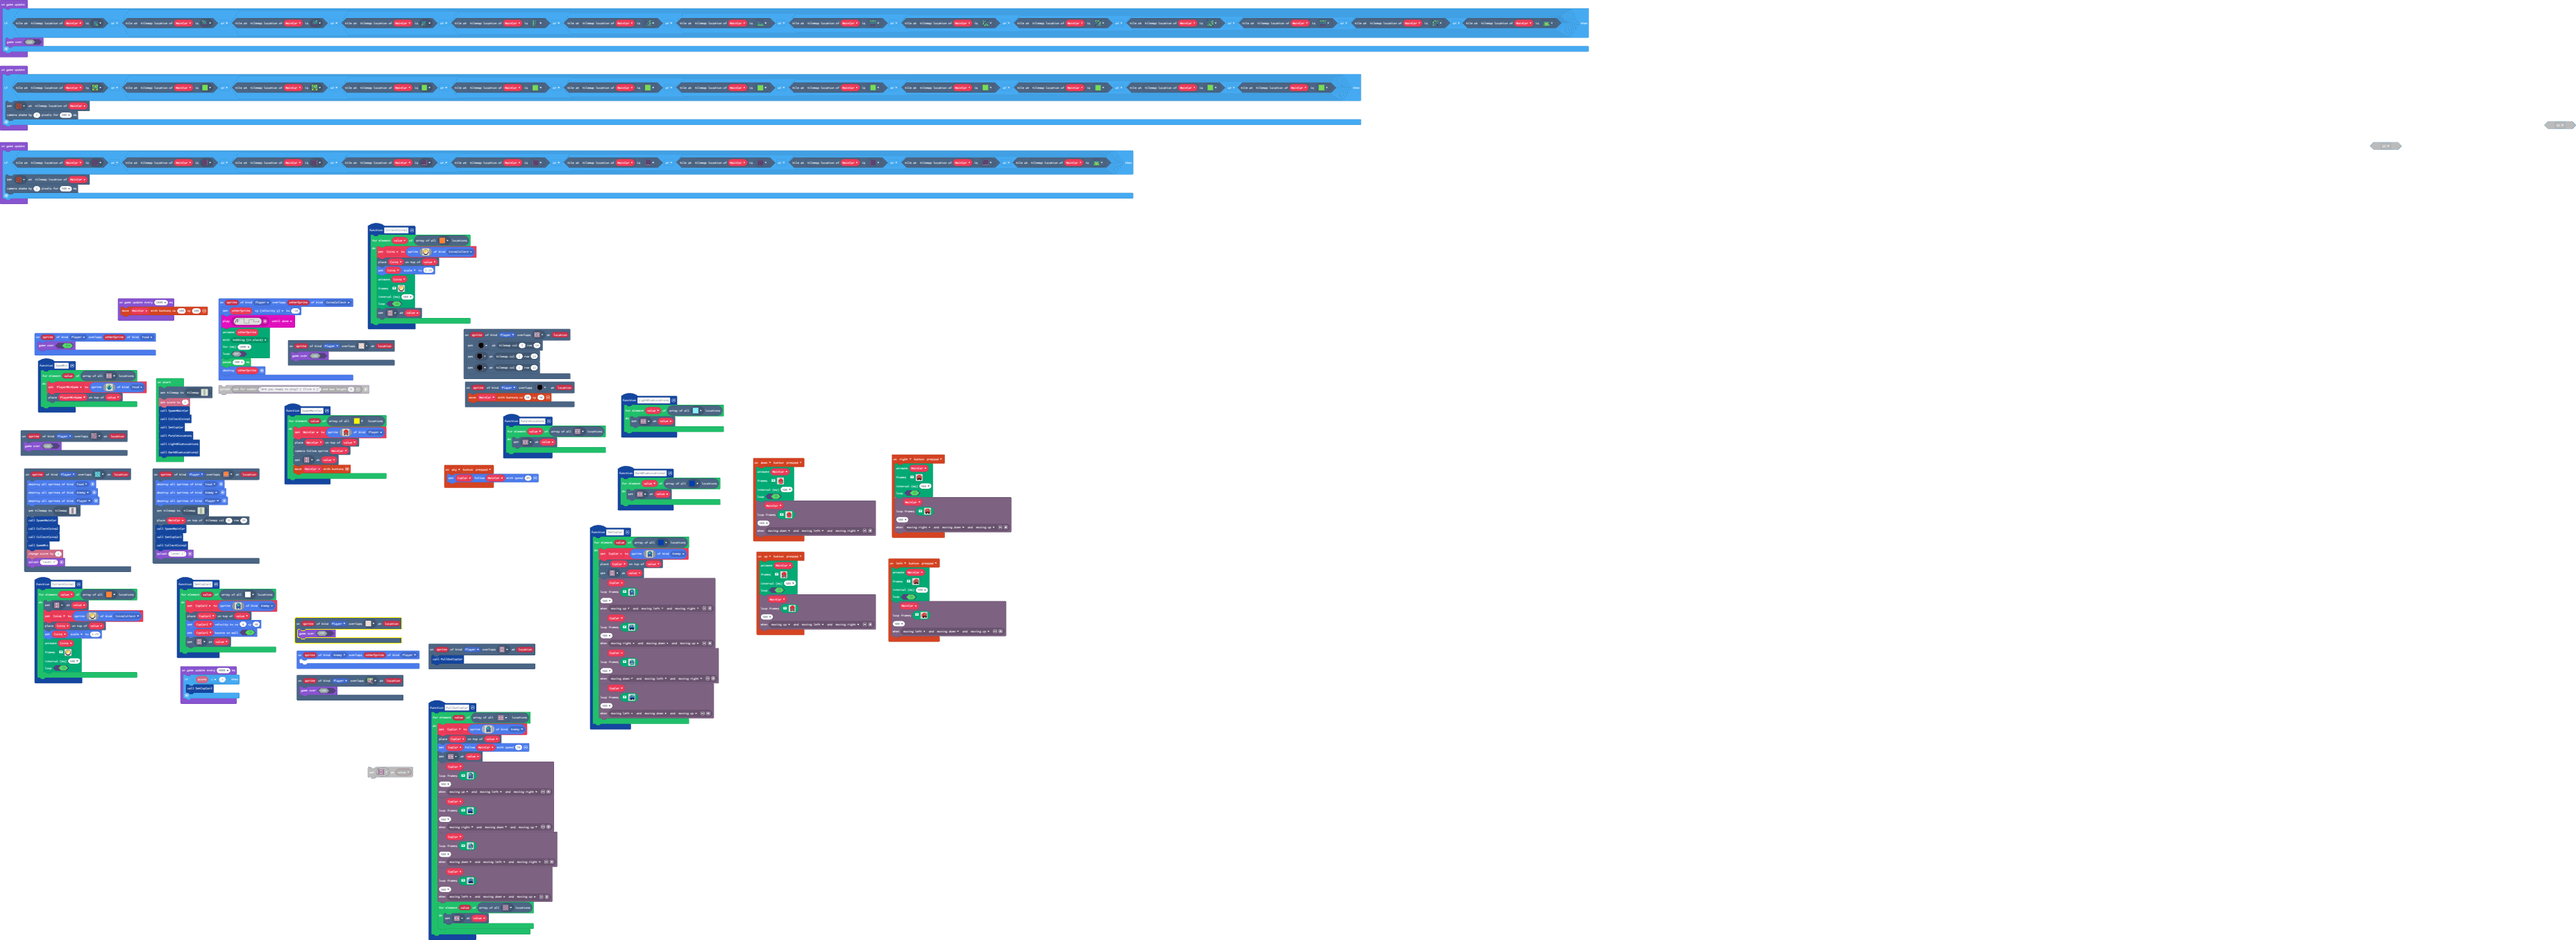
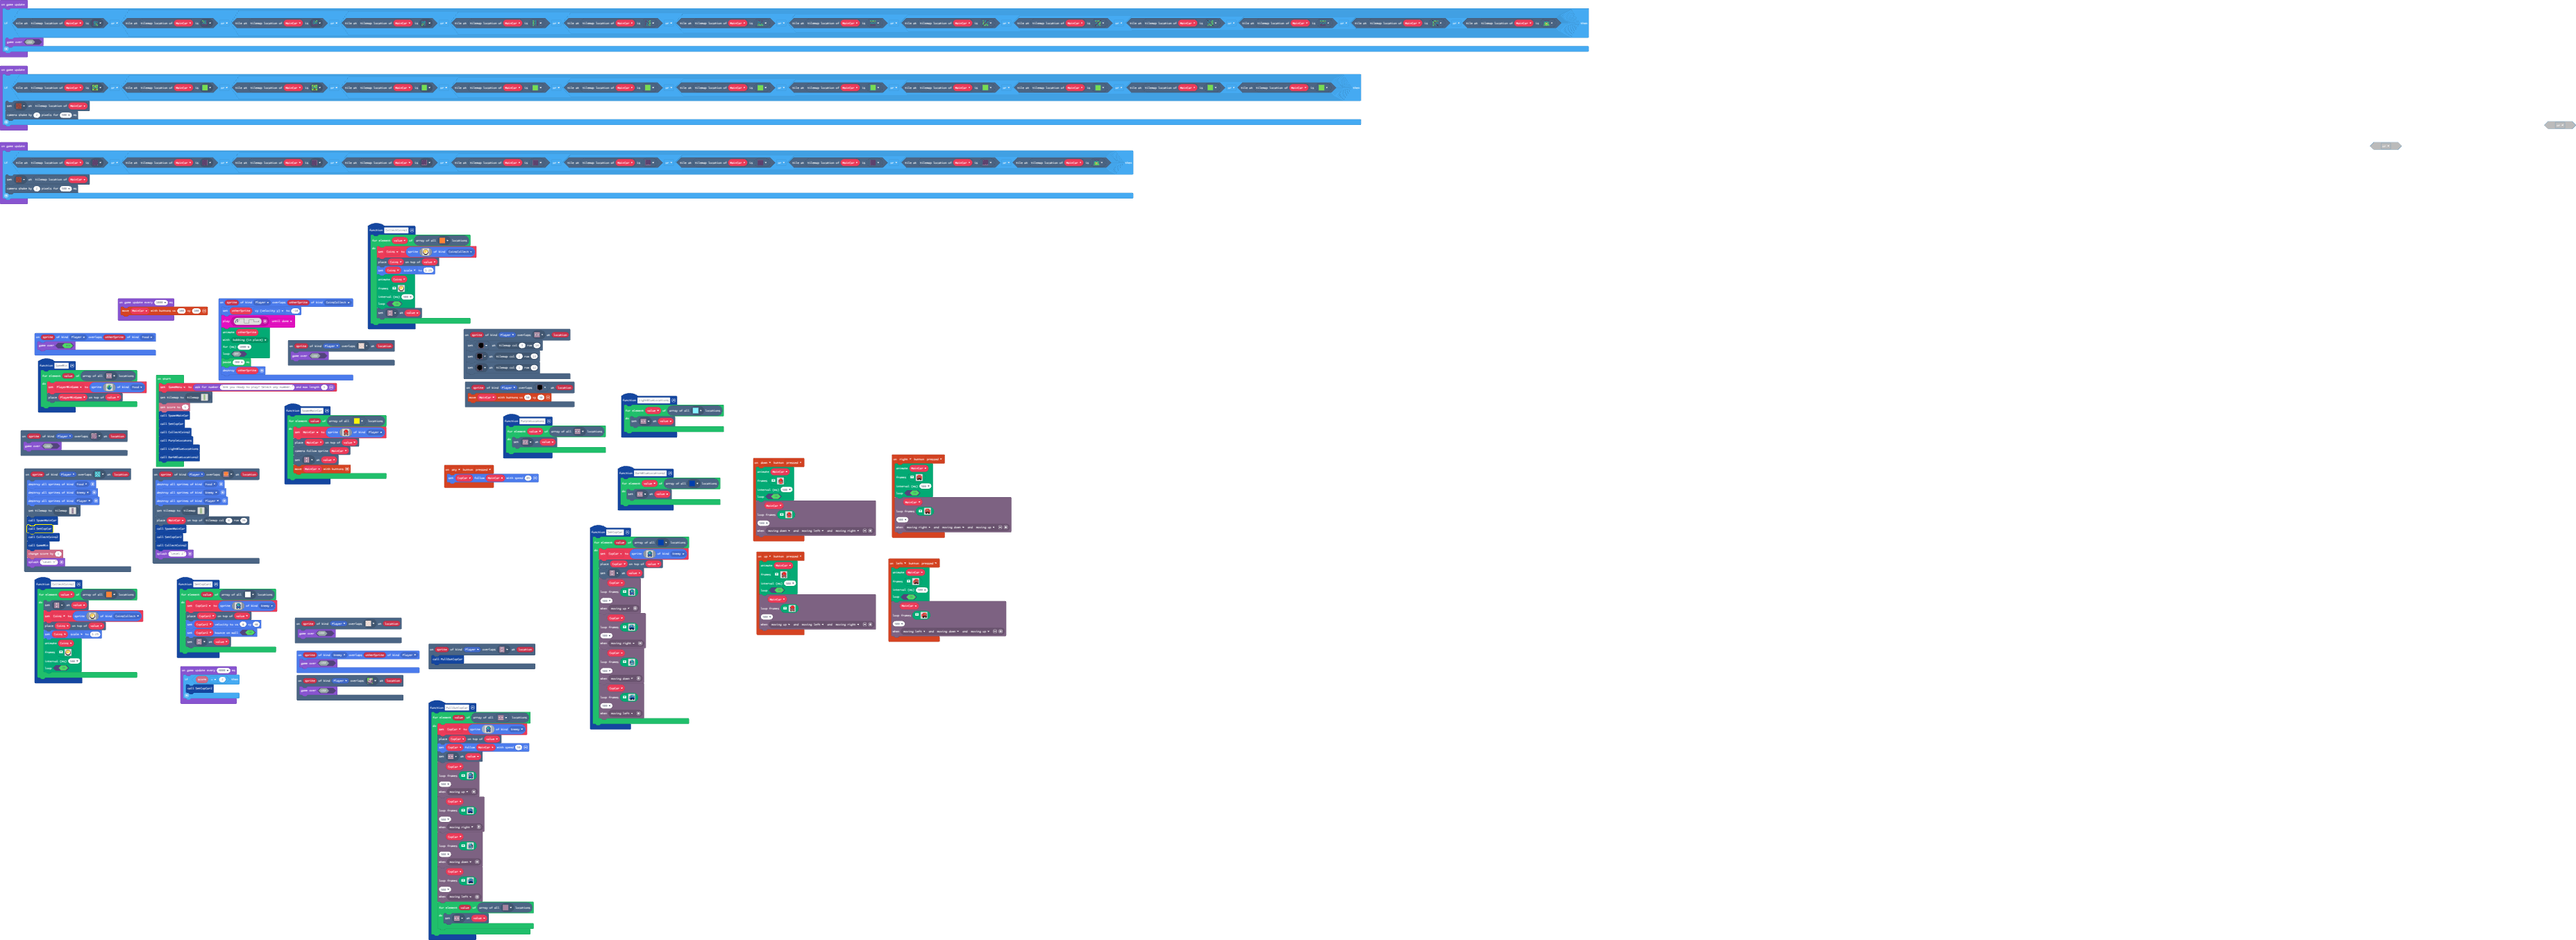
Update main.blocks, main.ts, tilemap.g.jres, tilemap.g.ts

diff --git a/tilemap.g.ts b/tilemap.g.ts
@@ -177,49 +177,8 @@ namespace myTiles {
 ..........
 ..........
 `, [myTiles.transparency16,sprites.vehicle.roadVertical,sprites.vehicle.roadHorizontal,sprites.skillmap.islandTile1,sprites.skillmap.islandTile4,sprites.skillmap.islandTile3,sprites.skillmap.islandTile5,myTiles.tile1,sprites.builtin.brick,myTiles.tile3,myTiles.tile4,myTiles.tile6,myTiles.tile8,myTiles.tile9,myTiles.tile15,myTiles.tile16,myTiles.tile17,myTiles.tile20,myTiles.tile22,myTiles.tile24,myTiles.tile25,myTiles.tile31,myTiles.tile33,myTiles.tile5,myTiles.tile36,myTiles.tile37], TileScale.Sixteen);
-            case "level1":
[1 lines of base64/hex data omitted]
-............
-............
-............
-............
-............
-............
-............
-............
-............
-............
-............
-............
-............
-............
-............
-............
-............
-............
-............
-............
-............
-............
-............
-............
-............
-............
-............
-............
-............
-............
-............
-............
-............
-............
-............
-............
-............
-............
-`, [myTiles.transparency16,sprites.vehicle.roadVertical,sprites.vehicle.roadHorizontal,sprites.dungeon.darkGroundNorthWest1,sprites.dungeon.darkGroundEast,sprites.dungeon.darkGroundNorthEast0,sprites.dungeon.darkGroundSouthEast0,sprites.dungeon.darkGroundNorthWest0,sprites.dungeon.darkGroundSouthWest0,sprites.dungeon.darkGroundNorth,sprites.dungeon.darkGroundWest,sprites.dungeon.darkGroundSouth,sprites.dungeon.greenInnerNorthWest,sprites.dungeon.greenInnerSouthEast,sprites.dungeon.greenInnerSouthWest,sprites.dungeon.greenInnerNorthEast,sprites.dungeon.greenOuterWest0,sprites.dungeon.greenOuterEast1,sprites.dungeon.greenOuterSouth0,sprites.dungeon.greenOuterNorth0,sprites.dungeon.greenOuterSouth2,sprites.dungeon.greenOuterSouthEast,sprites.dungeon.greenOuterNorthEast,sprites.dungeon.greenOuterEast0,sprites.dungeon.greenOuterSouthWest,sprites.dungeon.greenOuterNorth1,sprites.dungeon.greenOuterNorthWest,sprites.dungeon.greenOuterWest1,myTiles.tile30,myTiles.tile27,sprites.dungeon.floorDarkDiamond,myTiles.tile33,myTiles.tile31], TileScale.Sixteen);
             case "level4":
[2 lines of base64/hex data omitted]
 .............
 .............
 .............
@@ -259,6 +218,50 @@ namespace myTiles {
 .............
 .............
 `, [myTiles.transparency16,myTiles.tile4,myTiles.tile6,myTiles.tile8,myTiles.tile9,myTiles.tile15,myTiles.tile26,myTiles.tile1,myTiles.tile3,sprites.skillmap.islandTile5,sprites.skillmap.islandTile3,sprites.skillmap.islandTile1,sprites.skillmap.islandTile4,myTiles.tile28,myTiles.tile31,myTiles.tile33], TileScale.Sixteen);
+            case "level1":
[1 lines of base64/hex data omitted]
+............
+............
+............
+............
+............
+............
+............
+............
+............
+............
+............
+............
+............
+............
+............
+............
+............
+............
+............
+............
+............
+............
+............
+............
+............
+............
+............
+............
+............
+............
+............
+............
+............
+............
+............
+............
+............
+............
+............
+............
+............
+`, [myTiles.transparency16,sprites.vehicle.roadVertical,sprites.vehicle.roadHorizontal,sprites.dungeon.darkGroundNorthWest1,sprites.dungeon.darkGroundEast,sprites.dungeon.darkGroundNorthEast0,sprites.dungeon.darkGroundSouthEast0,sprites.dungeon.darkGroundNorthWest0,sprites.dungeon.darkGroundSouthWest0,sprites.dungeon.darkGroundNorth,sprites.dungeon.darkGroundWest,sprites.dungeon.darkGroundSouth,sprites.dungeon.greenInnerNorthWest,sprites.dungeon.greenInnerSouthEast,sprites.dungeon.greenInnerSouthWest,sprites.dungeon.greenInnerNorthEast,sprites.dungeon.greenOuterWest0,sprites.dungeon.greenOuterEast1,sprites.dungeon.greenOuterSouth0,sprites.dungeon.greenOuterNorth0,sprites.dungeon.greenOuterSouth2,sprites.dungeon.greenOuterSouthEast,sprites.dungeon.greenOuterNorthEast,sprites.dungeon.greenOuterEast0,sprites.dungeon.greenOuterSouthWest,sprites.dungeon.greenOuterNorth1,sprites.dungeon.greenOuterNorthWest,sprites.dungeon.greenOuterWest1,myTiles.tile30,myTiles.tile27,sprites.dungeon.floorDarkDiamond,myTiles.tile33,myTiles.tile31,myTiles.tile5,myTiles.tile15], TileScale.Sixteen);
         }
         return null;
     })

diff --git a/main.ts b/main.ts
@@ -79,7 +79,7 @@ scene.onOverlapTile(SpriteKind.Player, assets.tile`myTile22`, function (sprite, 
     sprites.destroyAllSpritesOfKind(SpriteKind.Player)
     tiles.setCurrentTilemap(tilemap`level1`)
     SpawnMainCar()
-    CollectCoins2()
+    SetCopCar()
     CollectCoins2()
     GameWin()
     info.changeScoreBy(1)
@@ -215,7 +215,7 @@ controller.right.onEvent(ControllerButtonEvent.Pressed, function () {
     )
 })
 sprites.onOverlap(SpriteKind.Enemy, SpriteKind.Player, function (sprite, otherSprite) {
-	
+    game.gameOver(false)
 })
 function DarkBlueLocations2 () {
     for (let value of tiles.getTilesByType(assets.tile`myTile3`)) {
@@ -266,7 +266,7 @@ function PullOutCopCar () {
             . . . . f f . . . . . . f f . . 
             `],
         500,
-        characterAnimations.rule(Predicate.MovingUp, Predicate.MovingLeft, Predicate.MovingRight)
+        characterAnimations.rule(Predicate.MovingUp)
         )
         characterAnimations.loopFrames(
         CopCar,
@@ -289,7 +289,7 @@ function PullOutCopCar () {
             . . . . . . . . . . . . . . . . 
             `],
         500,
-        characterAnimations.rule(Predicate.MovingRight, Predicate.MovingDown, Predicate.MovingUp)
+        characterAnimations.rule(Predicate.MovingRight)
         )
         characterAnimations.loopFrames(
         CopCar,
@@ -312,7 +312,7 @@ function PullOutCopCar () {
             . . . . . 8 6 6 6 6 6 6 8 . . . 
             `],
         500,
-        characterAnimations.rule(Predicate.MovingDown, Predicate.MovingLeft, Predicate.MovingRight)
+        characterAnimations.rule(Predicate.MovingDown)
         )
         characterAnimations.loopFrames(
         CopCar,
@@ -335,7 +335,7 @@ function PullOutCopCar () {
             . . . . . . . . . . . . . . . . 
             `],
         500,
-        characterAnimations.rule(Predicate.MovingLeft, Predicate.MovingDown, Predicate.MovingUp)
+        characterAnimations.rule(Predicate.MovingLeft)
         )
         for (let value of tiles.getTilesByType(assets.tile`myTile18`)) {
             tiles.setTileAt(value, sprites.vehicle.roadHorizontal)
@@ -639,7 +639,7 @@ function SetCopCar () {
             . . . . f f . . . . . . f f . . 
             `],
         500,
-        characterAnimations.rule(Predicate.MovingUp, Predicate.MovingLeft, Predicate.MovingRight)
+        characterAnimations.rule(Predicate.MovingUp)
         )
         characterAnimations.loopFrames(
         CopCar,
@@ -662,7 +662,7 @@ function SetCopCar () {
             . . . . . . . . . . . . . . . . 
             `],
         500,
-        characterAnimations.rule(Predicate.MovingRight, Predicate.MovingDown, Predicate.MovingUp)
+        characterAnimations.rule(Predicate.MovingRight)
         )
         characterAnimations.loopFrames(
         CopCar,
@@ -685,7 +685,7 @@ function SetCopCar () {
             . . . . . 8 6 6 6 6 6 6 8 . . . 
             `],
         500,
-        characterAnimations.rule(Predicate.MovingDown, Predicate.MovingLeft, Predicate.MovingRight)
+        characterAnimations.rule(Predicate.MovingDown)
         )
         characterAnimations.loopFrames(
         CopCar,
@@ -708,7 +708,7 @@ function SetCopCar () {
             . . . . . . . . . . . . . . . . 
             `],
         500,
-        characterAnimations.rule(Predicate.MovingLeft, Predicate.MovingDown, Predicate.MovingUp)
+        characterAnimations.rule(Predicate.MovingLeft)
         )
     }
 }
@@ -746,11 +746,12 @@ let CopCar2: Sprite = null
 let Coins: Sprite = null
 let CopCar: Sprite = null
 let MainCar: Sprite = null
+let GameMenu = game.askForNumber("Are you ready to play? Select any number.", 1)
 tiles.setCurrentTilemap(tilemap`level2`)
 info.setScore(1)
 SpawnMainCar()
-CollectCoins1()
 SetCopCar()
+CollectCoins2()
 PurpleLocatons()
 LightBlueLocations()
 DarkBlueLocations2()
